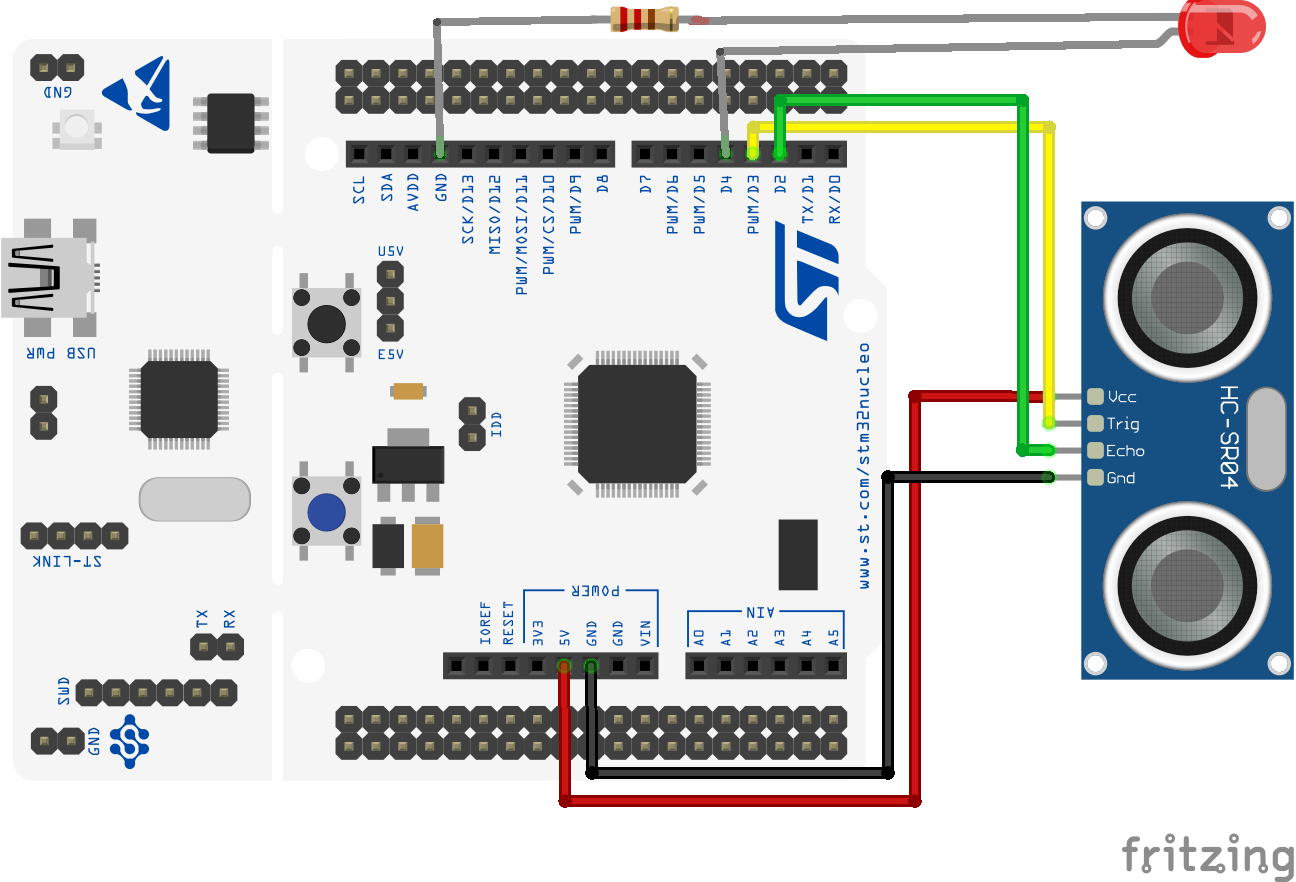
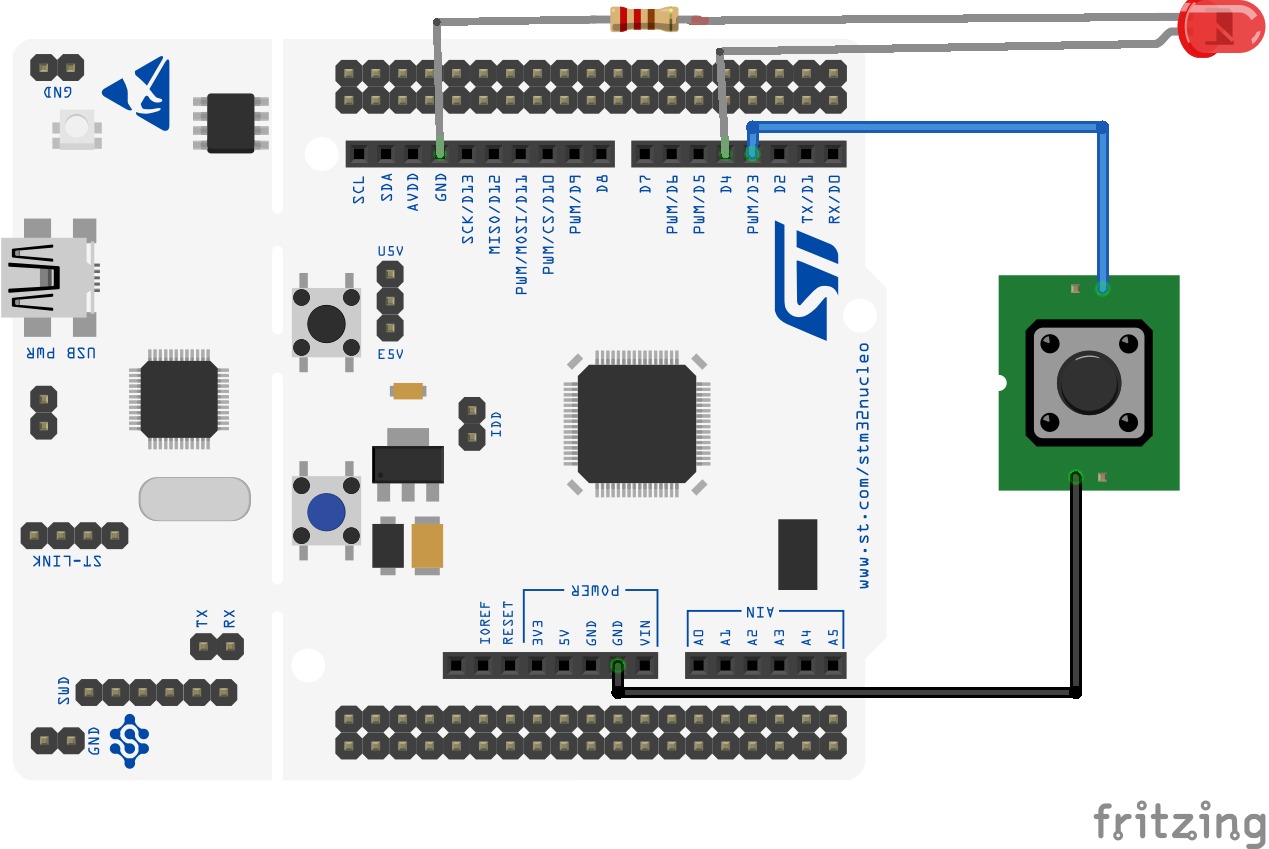
Ultrasonic sensor replaced with cleat

diff --git a/src/Devices/DockDevice/devices/BoatPresenceEstimator.c b/src/Devices/DockDevice/devices/BoatPresenceEstimator.c
@@ -3,75 +3,32 @@
 #include "../../Common/conversion.h"
 #include "random.h"
 
-#define FAKE_SENSOR_UPDATE_INTERVAL_S 30
+#define FAKE_SENSOR_UPDATE_INTERVAL_S 60*3
 #ifdef FAKE_SENSOR
 uint32_t lastUpdate;
 #endif
 
-int boat_presence_estimator_init(boatPresenceEstimator_t *boatPresenceEstimator, gpio_t triggerPin, gpio_t echoPin) {
-    boatPresenceEstimator->srf04Params.trigger = triggerPin;
-    boatPresenceEstimator->srf04Params.echo = echoPin;
+int boat_presence_estimator_init(boatPresenceEstimator_t *boatPresenceEstimator, gpio_t triggerPin) {
 #ifdef FAKE_SENSOR
     random_init(xtimer_now_usec());
     lastUpdate = 0;
     printf("Fake sensor initialized\n");
 #else
-    if (srf04_init(&(boatPresenceEstimator->srf04), &(boatPresenceEstimator->srf04Params)) != SRF04_OK) {
-        printf("ERROR SRF04 Initialization\n");
-        return -1;
-    }
-    else
+    boatPresenceEstimator->pin = triggerPin;
+    gpio_init(triggerPin,GPIO_IN_PU);
 #endif
-    boatPresenceEstimator->lastValid = 0;
     return 1;
 }
 
-int boat_presence_estimator_get_present(boatPresenceEstimator_t *boatPresenceEstimator, int numberOfRead) {
-    // The boat present estimation is based on multiple read, to avoid outliers.
-    // The function return the most common value
-    // This function is blockable, use numberOfRead as small as possible
-
+int boat_presence_estimator_get_present(boatPresenceEstimator_t *boatPresenceEstimator) {
     //Return 1 if the boat is present
     //Return 0 if the boat is not present
-    //Return -1 if there is a read error
 #ifdef FAKE_SENSOR
-    (void)numberOfRead;
     if(US2S(xtimer_now_usec() - lastUpdate) > FAKE_SENSOR_UPDATE_INTERVAL_S){
-        lastUpdate = xtimer_now_usec();
-        boatPresenceEstimator->lastValid = random_uint32_range(0,10) > 5;
+        //Fake sensor is updated every 3 minutes
+        return random_uint32_range(0,10) > 5;
     }
-    return boatPresenceEstimator->lastValid;
 #else
-    int boatIsPresent = 0;
-    int boatIsNotPresent = 0;
-
-    for (int i = 0; i < numberOfRead; i++) {
-        const int distance_mm = srf04_get_distance(&(boatPresenceEstimator->srf04));
-        bool read_error = distance_mm < 0;
-
-        if (distance_mm > DEFAULT_BOAT_DISTANCE_THRESHOLD_MM + DEFAULT_HYSTERESIS_MM / 2) { //Distance > 1000
-            boatIsNotPresent++;
-        }
-        else if (!read_error &&
-                 distance_mm < DEFAULT_BOAT_DISTANCE_THRESHOLD_MM - DEFAULT_HYSTERESIS_MM / 2) { //Distance < 500
-            boatIsPresent++;
-        }
-        xtimer_msleep(60);
-    }
-
-    if (boatIsPresent > boatIsNotPresent) {
-        boatPresenceEstimator->lastValid = 1;
-        return boatPresenceEstimator->lastValid;
-    }
-    else if (boatIsPresent < boatIsNotPresent) {
-        boatPresenceEstimator->lastValid = 0;
-        return boatPresenceEstimator->lastValid;
-    }
-    else {
-        // if boatIsPresent == 0 and boatIsNotPresent == 0 the boat is on the deadzone, between 500 and 1000
-        // Or there are read error
-        // So return the last valid read
-        return boatPresenceEstimator->lastValid;
-    }
+    return gpio_read(boatPresenceEstimator->pin) > 0;
 #endif
 }

diff --git a/src/Devices/DockDevice/main.c b/src/Devices/DockDevice/main.c
@@ -11,7 +11,6 @@
 #include "net/emcute.h"
 
 #define TRIGGER_PIN GPIO_PIN(PORT_B,3)  //D3
-#define ECHO_PIN GPIO_PIN(PORT_A,10)    //D2
 #define LED_PIN GPIO_PIN(PORT_B,5)      //D4
 
 #define MAIN_QUEUE_SIZE     (8)
@@ -35,7 +34,8 @@ static void *boat_thread(void *arg) {
     int firstRun = 1;
     while (1) {
         memset(msg, 0, MAX_MSG_SIZE);
-        const int isDockFree = !boat_presence_estimator_get_present(&boatPresenceEstimator, 5);
+        const int isDockFree = boat_presence_estimator_get_present(&boatPresenceEstimator);
+        printf("Dock is free %d\n",isDockFree);
         if (!isDockFree && isLedOn) {
             gpio_clear(led);
             isLedOn = 0;
@@ -44,14 +44,12 @@ static void *boat_thread(void *arg) {
             lastIsDockFree = isDockFree;
             firstRun = 0;
         }
-        else {
-            if (isDockFree != lastIsDockFree) {
+        else if (isDockFree != lastIsDockFree) {
                 sprintf(msg, "{\"dock_num\":%d,\"event\":\"%d\"}", emcuteManagerGetNodeId(&emcuteManager), isDockFree);
                 emcuteManagerPublish(&emcuteManager, MQTT_TOPIC_DETECT_BOAT, msg);
                 lastIsDockFree = isDockFree;
                 printf("Dock is free %d\n", isDockFree);
                 xtimer_sleep(MQTT_PUBLISH_INTERVAL_S-1);
-            }
         }
         xtimer_sleep(1);
     }
@@ -165,7 +163,7 @@ static const shell_command_t shell_commands[] = {
 
 int main(void) {
     xtimer_init();
-    boat_presence_estimator_init(&boatPresenceEstimator, TRIGGER_PIN, ECHO_PIN);
+    boat_presence_estimator_init(&boatPresenceEstimator, TRIGGER_PIN);
     gpio_init(led, GPIO_OUT);
 
     msg_init_queue(_main_msg_queue, MAIN_QUEUE_SIZE);

diff --git a/src/Devices/DockDevice/devices/BoatPresenceEstimator.h b/src/Devices/DockDevice/devices/BoatPresenceEstimator.h
@@ -10,12 +10,10 @@
 #define DEFAULT_BOAT_DISTANCE_THRESHOLD_MM 750
 
 typedef struct boatPresenceEstimator_s {
-    srf04_t srf04;
-    srf04_params_t srf04Params;
-    bool lastValid;
+    gpio_t pin;
 }boatPresenceEstimator_t;
 
-int boat_presence_estimator_init(boatPresenceEstimator_t *boatPresenceEstimator, gpio_t triggerPin, gpio_t echoPin);
-int boat_presence_estimator_get_present(boatPresenceEstimator_t *boatPresenceEstimator, int numberOfRead);
+int boat_presence_estimator_init(boatPresenceEstimator_t *boatPresenceEstimator, gpio_t triggerPin);
+int boat_presence_estimator_get_present(boatPresenceEstimator_t *boatPresenceEstimator);
 
 #endif //IOTGROUPPROJECT_BOATPRESENCEESTIMATOR_H

diff --git a/Technology.md b/Technology.md
@@ -24,7 +24,7 @@ A single stm32 board is used for multiple dock, and it use a MQTT interface to c
 The main components of the prototype of the dock device are:
 
 - The main board STM32 Nucleo F401RE
-- Ultrasonic range meter HC-SR04
+- Switch
 - LED
 
 [Get more details here](src/Devices/DockDevice)
